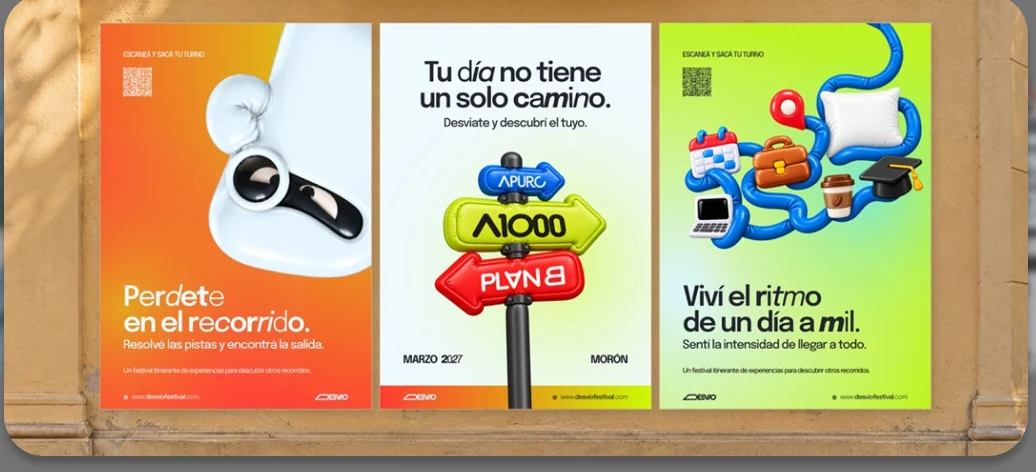
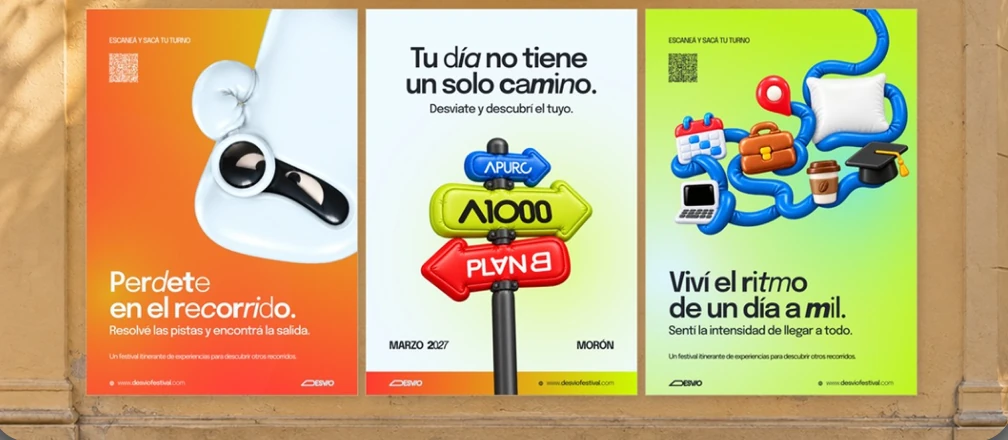
Formatos de referencia: sin el borde gris
Claude-Session: https://claude.ai/code/session_01WYbB4DkaAXyekGkEDViCWh

diff --git a/index.html b/index.html
@@ -2483,7 +2483,7 @@ body.inpage .sd-wrap:not(:empty){display:none}
 }
 
 /* v97 · La marca en uso: formatos y visor */
-.mu-fi{aspect-ratio:1036/472!important;cursor:zoom-in;border-radius:14px;overflow:hidden}
+.mu-fi{aspect-ratio:1008/440!important;cursor:zoom-in;border-radius:14px;overflow:hidden}
 .mu-fi img{object-fit:contain!important;object-position:center!important;transform:none!important;background:#111}
 .mu-px img,.mu-cx img,.mu-st img,.mu-cv img,.mu-po>img,.mu-pc img{cursor:zoom-in}
 .mu-lb{position:fixed;inset:0;z-index:200;background:rgba(20,21,23,.94);display:none;align-items:center;justify-content:center;padding:18px;cursor:zoom-out}
